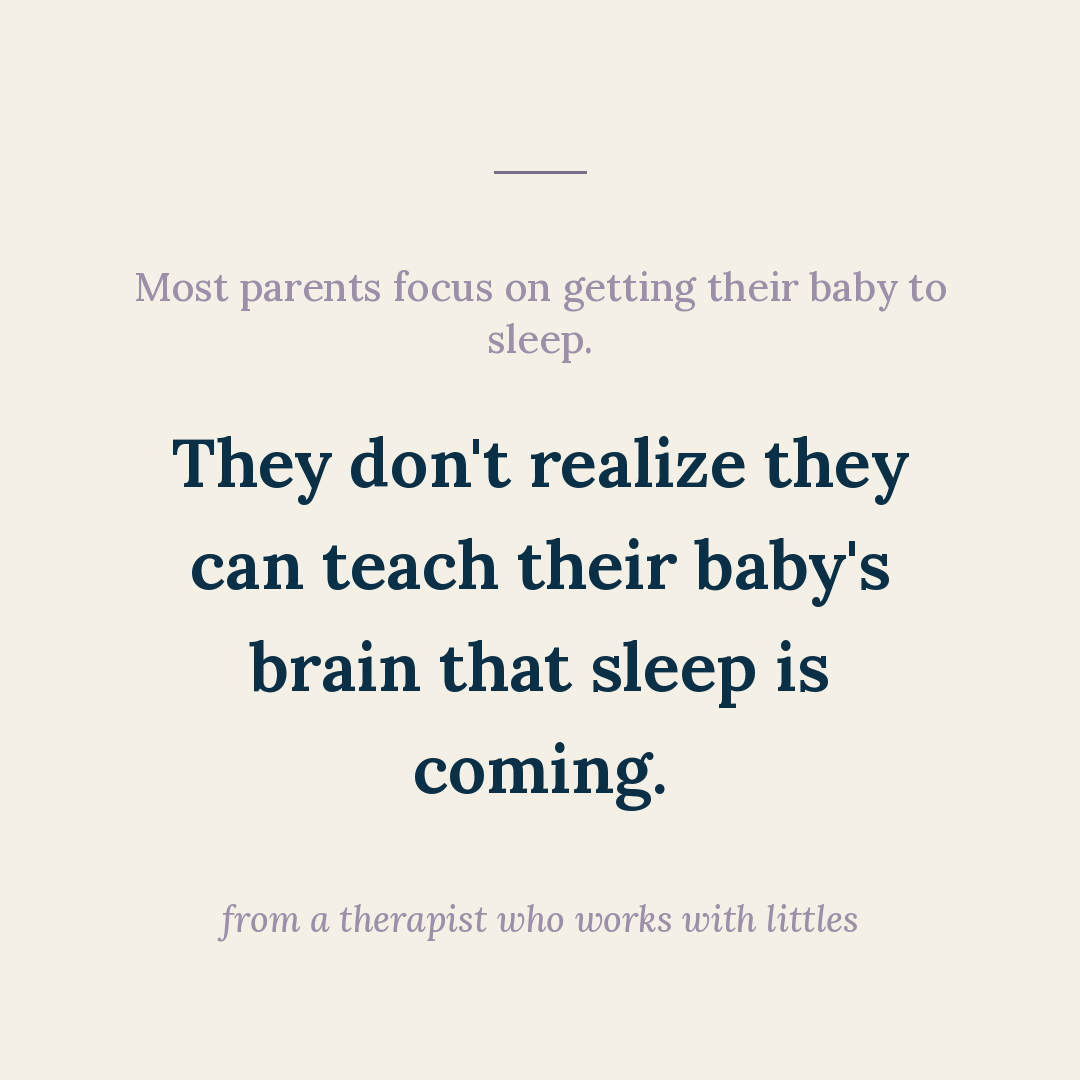
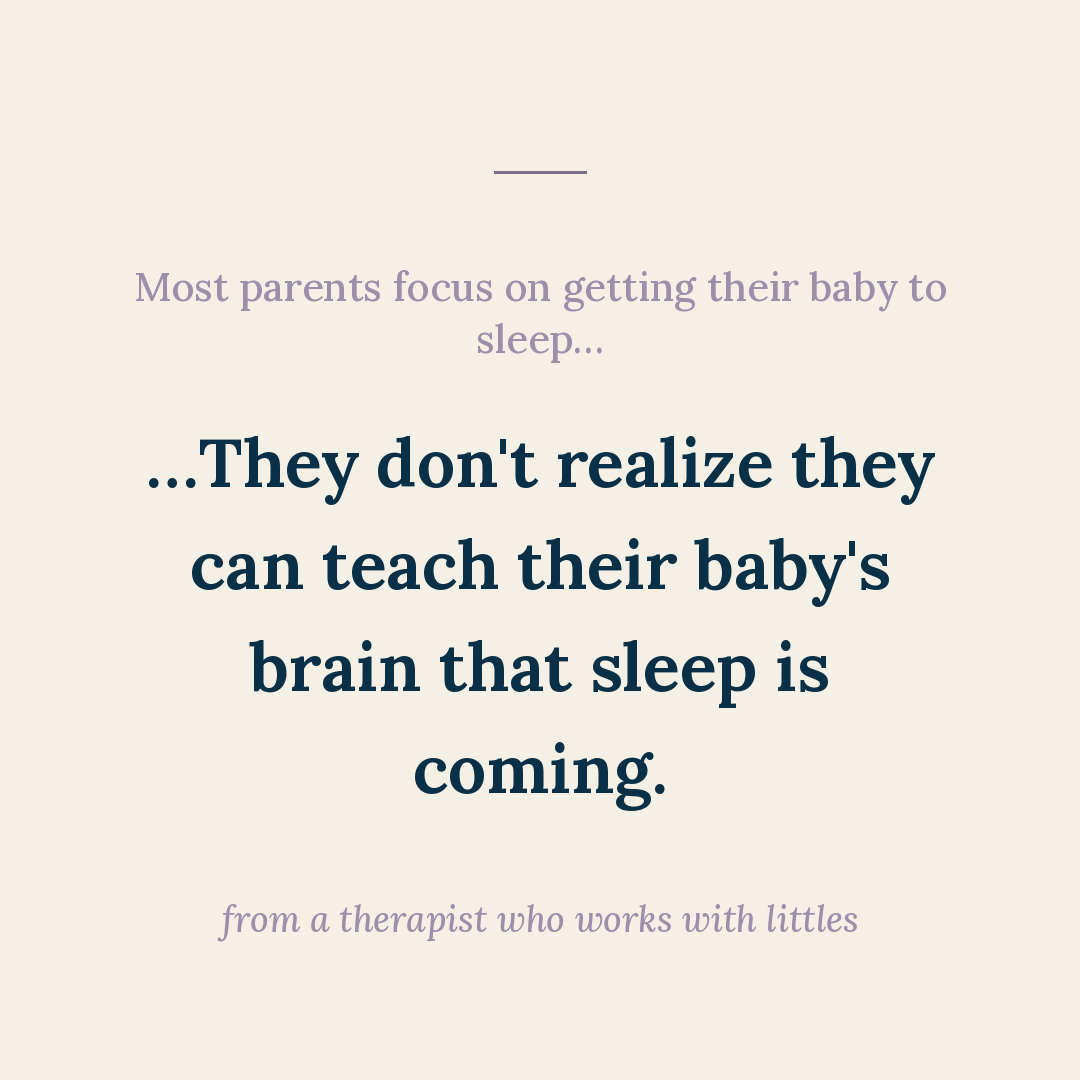
Add ad-test-teaching-sleep-is-coming (Ad Test - Teaching Sleep Is Coming)

Changed region(s): [[0.1528, 0.3972, 0.8556, 0.4889], [0.4278, 0.3056, 0.55, 0.3361]]

diff --git a/posts/ad-test-teaching-sleep-is-coming/slides.md b/posts/ad-test-teaching-sleep-is-coming/slides.md
@@ -4,9 +4,9 @@ Format: carousel · bg cream · lane Sleep/ritual (educational) · CTA Save
 Source: Ben's ad-concept #2 (`Social Media/ad-concepts.md`), verbatim slides. Test as a regular carousel.
 Cover uses the eyebrow layout (sentence 1 = lavender setup, sentence 2 = big reframe hook).
 
-## Cover (eyebrow setup + reframe hook)
-eyebrow: Most parents focus on getting their baby to sleep.
-hook: They don't realize they can teach their baby's brain that sleep is coming.
+## Cover (eyebrow setup + reframe hook; ellipses continue the thought across the break)
+eyebrow: Most parents focus on getting their baby to sleep…
+hook: …They don't realize they can teach their baby's brain that sleep is coming.
 
 ## Items
 01 — Babies learn through repetition long before they understand words.
